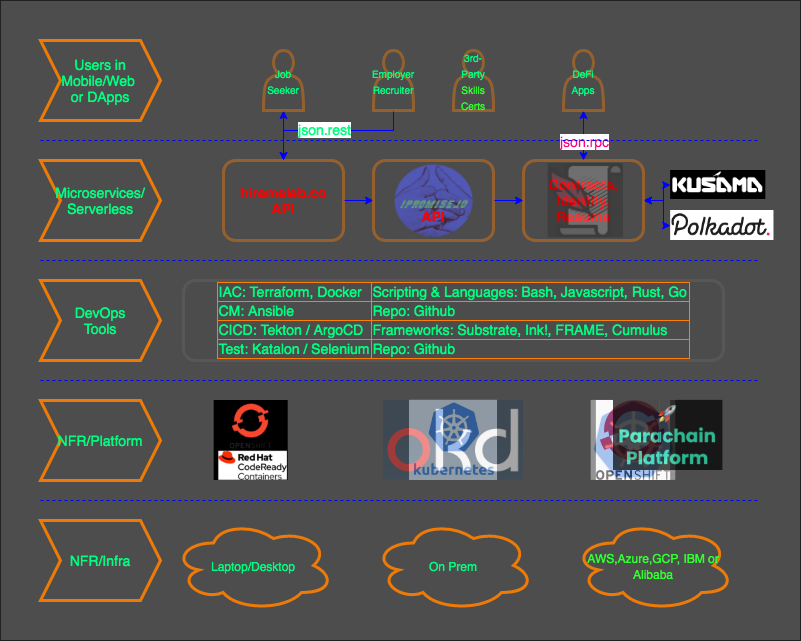
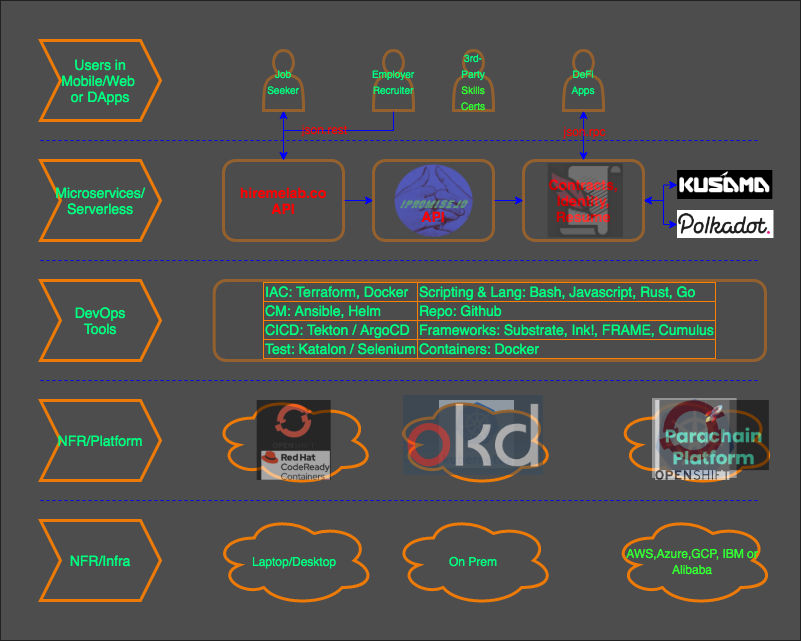
ammended minor diagram issues

diff --git a/project-ipromiseio.md b/project-ipromiseio.md
@@ -47,7 +47,7 @@ Therefore, we ask the teams to submit (where relevant):
 
   * System Context Diagram is a high-level view of the interaction between user personas and the the application. 
   
-  ![System Context Diagram](./images/SystemContextDiagram.png)
+  ![System Context Diagram](./images/ApplicationArchitecture-SystemContextDiagram.png)
     
   * Architecture Overview is an artifact that rovides an overview of the ‘main conceptual elements and relationships’ of an architecture, which may include candidate subsystems, components, nodes, connections, data stores, users, and external systems. As such, it represents the governing ideas and ‘candidate building blocks’ of the architecture.
   
